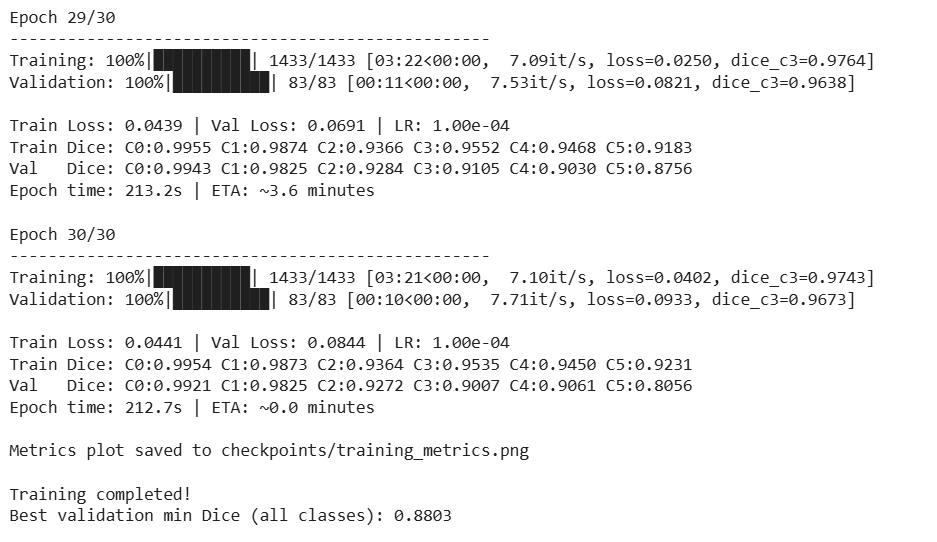
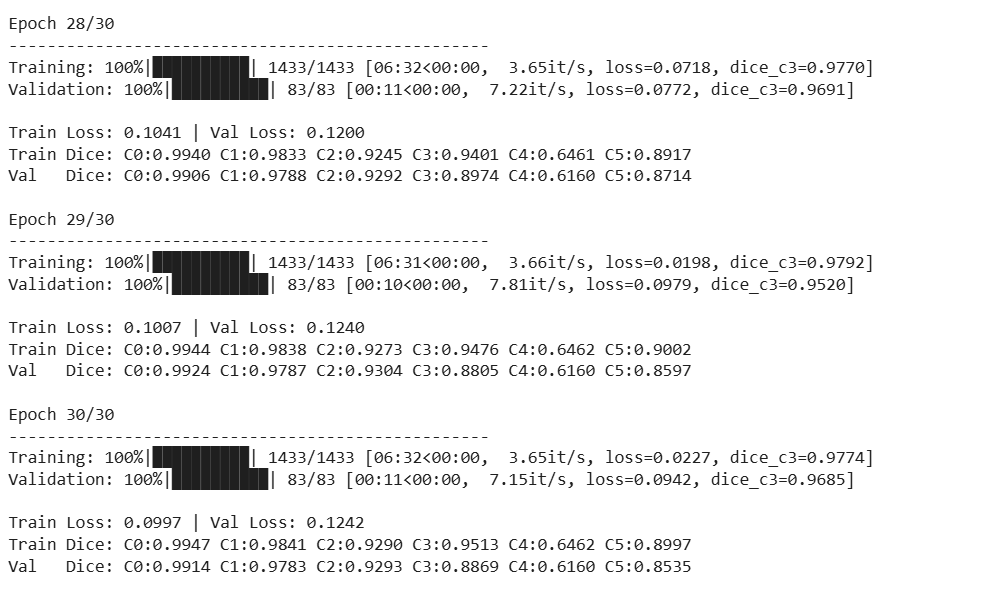
updated dice loss

diff --git a/recognition/2D_imporved_Unet_s4810272/train.py b/recognition/2D_imporved_Unet_s4810272/train.py
@@ -1,3 +1,6 @@
+"""
+Train script for Improved2DUNet on HipMRI dataset
+"""
 import os, time
 import torch
 import torch.nn as nn
@@ -9,30 +12,23 @@ from tqdm import tqdm
 from dataset import make_loaders
 from modules import Improved2DUNet, DiceLoss, dice_all_class
 
-# --- SPEED FLAGS (must be set early) ---
-torch.backends.cudnn.benchmark = True
-if torch.cuda.is_available():
-    # Allow fast TensorFloat-32 on Ampere+/Hopper GPUs
-    try:
-        torch.backends.cuda.matmul.allow_tf32 = True
-    except Exception:
-        pass
-    # PyTorch 2.x: improves matmul speed/precision policy
-    if hasattr(torch, "set_float32_matmul_precision"):
-        torch.set_float32_matmul_precision("medium")
-
-
 # -----------------------------
 # One epoch of training (AMP + grad clip)
 # -----------------------------
 def train_epoch(model, train_loader, criterion, optimizer, device, num_classes=6, amp=True, grad_clip=1.0):
-    model.train()
+    """
+    Runs one training epoch over the entire training loader.
+    Uses AMP (mixed precision) and optional gradient clipping.
+    Returns average loss and mean Dice per class.
+    """
+
+    model.train()  # train mode
     running_loss = 0.0
     dice_scores_per_class = [[] for _ in range(num_classes)]
 
     scaler = torch.cuda.amp.GradScaler(enabled=(amp and device.type == "cuda"))
 
-    pbar = tqdm(train_loader, desc='Training')
+    pbar = tqdm(train_loader, desc='Training')  # progress bar
     for images, masks in pbar:
         images = images.to(device, non_blocking=True)
         masks  = masks.to(device, non_blocking=True)
@@ -235,7 +231,7 @@ def train_model(
 # Example entry point
 # -----------------------------
 if __name__ == "__main__":
-    data_path = "/content/drive/My Drive/keras_slices_data"
+    data_path = "C:\Users\Fueri\Desktop\Comp3710_A3_report\data\keras_slices_data"
     num_epochs = 30
     batch_size = 8
     learning_rate = 1e-4
@@ -245,7 +241,7 @@ if __name__ == "__main__":
         num_epochs=num_epochs,
         batch_size=batch_size,
         learning_rate=learning_rate,
-        save_dir='/content/drive/My Drive/checkpoints',
+        save_dir='C:\Users\Fueri\Desktop\COMP3710A2',
         num_classes=6,
         resize=(256,128),
         num_workers=4,         
